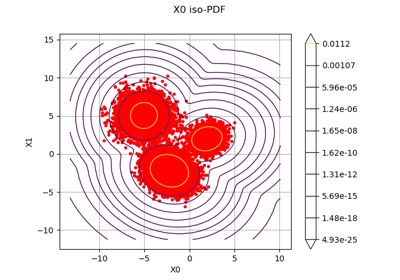
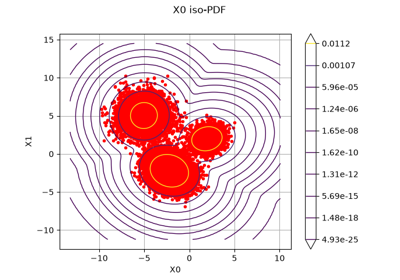
GitHub Actions build openturns/otmixmod 28087070320

diff --git a/otmixmod/master/_static/sg-tags.js b/otmixmod/master/_static/sg-tags.js
@@ -1,0 +1,148 @@
+// Author: Stuart Mumford
+// License: 3-clause BSD
+// This code is used on gallery index pages to extract and display a
+// list of tags for all examples on that page, and allow the user to
+// filter by one or more tags.
+
+// Create a subclass of Set where modifications trigger updates to the page.
+class TagSet extends Set {
+    // Update the URL to include currently selected tags
+    updateURLTags() {
+        const searchParams = new URLSearchParams(window.location.search);
+        if (this.size > 0) {
+            const tagStr = Array.from(this).join(",")
+            searchParams.set("sg-tags", tagStr);
+        } else {
+            searchParams.delete("sg-tags");
+        }
+
+        // Update the URL
+        const newUrl = `${window.location.pathname}?${searchParams.toString()}`;
+        window.history.replaceState({}, "", newUrl);
+    }
+
+    // Set all the elements of the list of tags to reflect the currently active tags
+    updateTagButtons() {
+        const tags = document.querySelectorAll('.sphx-glr-tag');
+        tags.forEach(tagElement => {
+            tagElement.classList.toggle(
+                'active',
+                this.has(tagElement.textContent)
+            );
+        });
+    }
+
+    // Set state of clear button
+    updateClearButton() {
+        const clearElement = document.getElementById('sphx-glr-tag-clear')
+        if (this.size > 0) {
+            clearElement.style.display = 'block';
+        } else {
+            clearElement.style.display = 'none';
+        }
+    }
+
+    // Filter grid items based on selected tags
+    filterGrid() {
+        const gridItems = document.querySelectorAll('.sphx-glr-thumbcontainer');
+
+        gridItems.forEach(item => {
+            let itemTags = new Set();
+            if (item.dataset.sgtags) {
+                itemTags = new Set(JSON.parse(item.dataset.sgtags));
+            }
+            const matchesAllSelected = [...this].every(tag => itemTags.has(tag));
+            item.style.display = matchesAllSelected || this.size === 0 ? 'block' : 'none';
+        });
+    }
+
+    updateUI() {
+        // Update UI and filter grid
+        this.updateTagButtons();
+        this.updateClearButton()
+        this.updateURLTags();
+        this.filterGrid();
+    }
+
+    add(value) {
+        const result = super.add(value);
+        this.updateUI();
+        return result;
+    }
+
+    delete(value) {
+        const result = super.delete(value);
+        this.updateUI();
+        return result;
+    }
+
+    clear() {
+        const result = super.clear();
+        this.updateUI();
+        return result;
+    }
+}
+
+// Track currently selected tags
+let selectedTags = new TagSet();
+
+// Extract all unique tags and populate the tag list
+function extractTags() {
+    const gridItems = document.querySelectorAll('[data-sgtags]');
+    const allTags = new Set();
+
+    gridItems.forEach(item => {
+        if (item.dataset.sgtags) {
+            const tags = JSON.parse(item.dataset.sgtags);
+            tags.forEach(tag => allTags.add(tag));
+        }
+    });
+
+    const tagList = document.getElementById('sg-tag-list');
+    allTags.forEach(tag => {
+        const tagElement = document.createElement('div');
+        tagElement.className = 'sphx-glr-tag';
+        tagElement.textContent = tag;
+        tagElement.addEventListener('click', () => toggleTag(tag));
+        tagList.appendChild(tagElement);
+    });
+    if (allTags.size > 0) {
+        nameElement = document.createElement('div');
+        nameElement.className = 'sphx-glr-tag-label';
+        nameElement.textContent = "🏷 Tags:";
+        tagList.prepend(nameElement);
+
+        let clearElement = document.createElement('div');
+        clearElement.id = 'sphx-glr-tag-clear';
+        clearElement.className = 'sphx-glr-tag-label';
+        clearElement.textContent = "Clear";
+        clearElement.style.display = 'none';  // Hide the element until there is a selected tag
+        clearElement.addEventListener('click', () => selectedTags.clear());
+        tagList.appendChild(clearElement);
+    }
+
+    // Load any tags from the URL
+    const searchParams = new URLSearchParams(window.location.search);
+    sgTagsParam = searchParams.get("sg-tags");
+    if (sgTagsParam !== null && sgTagsParam !== "") {
+        const urlTags = searchParams.get("sg-tags").split(",");
+        console.log(urlTags);
+        urlTags.forEach(tag => {
+            toggleTag(tag);
+        });
+    }
+}
+
+// Toggle a tag's selected state and update the grid
+function toggleTag(tag) {
+    if (selectedTags.has(tag)) {
+        selectedTags.delete(tag);
+    } else {
+        selectedTags.add(tag);
+    }
+}
+
+// Initialize
+document.addEventListener('DOMContentLoaded', () => {
+    extractTags();
+});

diff --git a/otmixmod/master/_static/sg_gallery.css b/otmixmod/master/_static/sg_gallery.css
@@ -365,3 +365,42 @@ p.sphx-glr-signature a.reference.external {
 a.sphx-glr-backref-instance {
   text-decoration: none;
 }
+
+.sphx-glr-tag-list {
+    display: flex;
+    flex-wrap: wrap;
+    gap: 5px;
+    padding-bottom: 2em;
+}
+
+.sphx-glr-tag {
+    padding: 5px 10px;
+    background-color: var(--sg-tooltip-background);
+    border-color: transparent;
+    border-style: solid;
+    border-width: 2px;
+    border-radius: 3px;
+    cursor: pointer;
+}
+
+.sphx-glr-tag:hover {
+    border-style: solid;
+    border-color: var(--sg-thumb-hover-border);
+}
+
+.sphx-glr-tag.active {
+    border-style: solid;
+    border-color: var(--sg-thumb-hover-border);
+}
+
+.sphx-glr-tag-label {
+    padding: 5px 10px 5px 0px;
+    border-color: transparent;
+    border-style: solid;
+    border-width: 2px;
+    border-radius: 3px;
+}
+
+#sphx-glr-tag-clear {
+    cursor: pointer;
+}

diff --git a/otmixmod/master/auto_examples/index.html b/otmixmod/master/auto_examples/index.html
@@ -10,7 +10,7 @@
     <link rel="stylesheet" type="text/css" href="../_static/openturns.css?v=8eaafb59" />
     <link rel="stylesheet" type="text/css" href="../_static/plot_directive.css" />
     <link rel="stylesheet" type="text/css" href="../_static/copybutton.css?v=76b2166b" />
-    <link rel="stylesheet" type="text/css" href="../_static/sg_gallery.css?v=d2d258e8" />
+    <link rel="stylesheet" type="text/css" href="../_static/sg_gallery.css?v=fd6457a4" />
     <link rel="stylesheet" type="text/css" href="../_static/sg_gallery-binder.css?v=f4aeca0c" />
     <link rel="stylesheet" type="text/css" href="../_static/sg_gallery-dataframe.css?v=2082cf3c" />
     <link rel="stylesheet" type="text/css" href="../_static/sg_gallery-rendered-html.css?v=1277b6f3" />
@@ -20,6 +20,7 @@
     <script src="../_static/sphinx_highlight.js?v=6ffebe34"></script>
     <script src="../_static/clipboard.min.js?v=a7894cd8"></script>
     <script src="../_static/copybutton.js?v=4ea706d9"></script>
+    <script src="../_static/sg-tags.js?v=d80f6fa4"></script>
     <link rel="index" title="Index" href="../genindex.html" />
     <link rel="search" title="Search" href="../search.html" />
     <link rel="next" title="Example 1: Axial stressed beam" href="plot_example1.html" />
@@ -99,7 +100,7 @@
             
   <section id="examples">
 <h1>Examples<a class="headerlink" href="#examples" title="Link to this heading">¶</a></h1>
-<div class="sphx-glr-thumbnails"><div class="sphx-glr-thumbcontainer" tooltip="Example 1: Axial stressed beam"><img alt="" src="../_images/sphx_glr_plot_example1_thumb.png" />
+<div id='sg-tag-list' class='sphx-glr-tag-list'></div><div class="sphx-glr-thumbnails"><div class="sphx-glr-thumbcontainer" tooltip="Example 1: Axial stressed beam"><img alt="" src="../_images/sphx_glr_plot_example1_thumb.png" />
 <p><a class="reference internal" href="plot_example1.html"><span class="doc">Example 1: Axial stressed beam</span></a></p>
   <div class="sphx-glr-thumbnail-title">Example 1: Axial stressed beam</div>
 </div></div><div class="toctree-wrapper compound">

diff --git a/otmixmod/master/genindex.html b/otmixmod/master/genindex.html
@@ -9,7 +9,7 @@
     <link rel="stylesheet" type="text/css" href="_static/openturns.css?v=8eaafb59" />
     <link rel="stylesheet" type="text/css" href="_static/plot_directive.css" />
     <link rel="stylesheet" type="text/css" href="_static/copybutton.css?v=76b2166b" />
-    <link rel="stylesheet" type="text/css" href="_static/sg_gallery.css?v=d2d258e8" />
+    <link rel="stylesheet" type="text/css" href="_static/sg_gallery.css?v=fd6457a4" />
     <link rel="stylesheet" type="text/css" href="_static/sg_gallery-binder.css?v=f4aeca0c" />
     <link rel="stylesheet" type="text/css" href="_static/sg_gallery-dataframe.css?v=2082cf3c" />
     <link rel="stylesheet" type="text/css" href="_static/sg_gallery-rendered-html.css?v=1277b6f3" />
@@ -18,6 +18,7 @@
     <script src="_static/sphinx_highlight.js?v=6ffebe34"></script>
     <script src="_static/clipboard.min.js?v=a7894cd8"></script>
     <script src="_static/copybutton.js?v=4ea706d9"></script>
+    <script src="_static/sg-tags.js?v=d80f6fa4"></script>
     <link rel="index" title="Index" href="#" />
     <link rel="search" title="Search" href="search.html" />
     <link href='http://fonts.googleapis.com/css?family=Open+Sans:300,400,700'
@@ -182,7 +183,7 @@
     </div>
     <div class="footer" role="contentinfo">
     &#169; Copyright 2005-2026 Airbus-EDF-IMACS-ONERA-Phimeca.
-      Last updated on Apr 27, 2026.
+      Last updated on Jun 24, 2026.
       Created using <a href="https://www.sphinx-doc.org/">Sphinx</a> 9.1.0.
     </div>
   </body>

diff --git a/otmixmod/master/search.html b/otmixmod/master/search.html
@@ -9,7 +9,7 @@
     <link rel="stylesheet" type="text/css" href="_static/openturns.css?v=8eaafb59" />
     <link rel="stylesheet" type="text/css" href="_static/plot_directive.css" />
     <link rel="stylesheet" type="text/css" href="_static/copybutton.css?v=76b2166b" />
-    <link rel="stylesheet" type="text/css" href="_static/sg_gallery.css?v=d2d258e8" />
+    <link rel="stylesheet" type="text/css" href="_static/sg_gallery.css?v=fd6457a4" />
     <link rel="stylesheet" type="text/css" href="_static/sg_gallery-binder.css?v=f4aeca0c" />
     <link rel="stylesheet" type="text/css" href="_static/sg_gallery-dataframe.css?v=2082cf3c" />
     <link rel="stylesheet" type="text/css" href="_static/sg_gallery-rendered-html.css?v=1277b6f3" />
@@ -19,6 +19,7 @@
     <script src="_static/sphinx_highlight.js?v=6ffebe34"></script>
     <script src="_static/clipboard.min.js?v=a7894cd8"></script>
     <script src="_static/copybutton.js?v=4ea706d9"></script>
+    <script src="_static/sg-tags.js?v=d80f6fa4"></script>
     <script src="_static/searchtools.js"></script>
     <script src="_static/language_data.js"></script>
     <link rel="index" title="Index" href="genindex.html" />
@@ -113,7 +114,7 @@
     </div>
     <div class="footer" role="contentinfo">
     &#169; Copyright 2005-2026 Airbus-EDF-IMACS-ONERA-Phimeca.
-      Last updated on Apr 27, 2026.
+      Last updated on Jun 24, 2026.
       Created using <a href="https://www.sphinx-doc.org/">Sphinx</a> 9.1.0.
     </div>
   </body>

diff --git a/otmixmod/master/auto_examples/plot_example1.html b/otmixmod/master/auto_examples/plot_example1.html
@@ -10,7 +10,7 @@
     <link rel="stylesheet" type="text/css" href="../_static/openturns.css?v=8eaafb59" />
     <link rel="stylesheet" type="text/css" href="../_static/plot_directive.css" />
     <link rel="stylesheet" type="text/css" href="../_static/copybutton.css?v=76b2166b" />
-    <link rel="stylesheet" type="text/css" href="../_static/sg_gallery.css?v=d2d258e8" />
+    <link rel="stylesheet" type="text/css" href="../_static/sg_gallery.css?v=fd6457a4" />
     <link rel="stylesheet" type="text/css" href="../_static/sg_gallery-binder.css?v=f4aeca0c" />
     <link rel="stylesheet" type="text/css" href="../_static/sg_gallery-dataframe.css?v=2082cf3c" />
     <link rel="stylesheet" type="text/css" href="../_static/sg_gallery-rendered-html.css?v=1277b6f3" />
@@ -20,6 +20,7 @@
     <script src="../_static/sphinx_highlight.js?v=6ffebe34"></script>
     <script src="../_static/clipboard.min.js?v=a7894cd8"></script>
     <script src="../_static/copybutton.js?v=4ea706d9"></script>
+    <script src="../_static/sg-tags.js?v=d80f6fa4"></script>
     <link rel="index" title="Index" href="../genindex.html" />
     <link rel="search" title="Search" href="../search.html" />
     <link rel="prev" title="Examples" href="index.html" />

diff --git a/otmixmod/master/index.html b/otmixmod/master/index.html
@@ -10,7 +10,7 @@
     <link rel="stylesheet" type="text/css" href="_static/openturns.css?v=8eaafb59" />
     <link rel="stylesheet" type="text/css" href="_static/plot_directive.css" />
     <link rel="stylesheet" type="text/css" href="_static/copybutton.css?v=76b2166b" />
-    <link rel="stylesheet" type="text/css" href="_static/sg_gallery.css?v=d2d258e8" />
+    <link rel="stylesheet" type="text/css" href="_static/sg_gallery.css?v=fd6457a4" />
     <link rel="stylesheet" type="text/css" href="_static/sg_gallery-binder.css?v=f4aeca0c" />
     <link rel="stylesheet" type="text/css" href="_static/sg_gallery-dataframe.css?v=2082cf3c" />
     <link rel="stylesheet" type="text/css" href="_static/sg_gallery-rendered-html.css?v=1277b6f3" />
@@ -20,6 +20,7 @@
     <script src="_static/sphinx_highlight.js?v=6ffebe34"></script>
     <script src="_static/clipboard.min.js?v=a7894cd8"></script>
     <script src="_static/copybutton.js?v=4ea706d9"></script>
+    <script src="_static/sg-tags.js?v=d80f6fa4"></script>
     <link rel="index" title="Index" href="genindex.html" />
     <link rel="search" title="Search" href="search.html" />
     <link rel="next" title="API Reference" href="user_manual/user_manual.html" />

diff --git a/otmixmod/master/user_manual/user_manual.html b/otmixmod/master/user_manual/user_manual.html
@@ -10,7 +10,7 @@
     <link rel="stylesheet" type="text/css" href="../_static/openturns.css?v=8eaafb59" />
     <link rel="stylesheet" type="text/css" href="../_static/plot_directive.css" />
     <link rel="stylesheet" type="text/css" href="../_static/copybutton.css?v=76b2166b" />
-    <link rel="stylesheet" type="text/css" href="../_static/sg_gallery.css?v=d2d258e8" />
+    <link rel="stylesheet" type="text/css" href="../_static/sg_gallery.css?v=fd6457a4" />
     <link rel="stylesheet" type="text/css" href="../_static/sg_gallery-binder.css?v=f4aeca0c" />
     <link rel="stylesheet" type="text/css" href="../_static/sg_gallery-dataframe.css?v=2082cf3c" />
     <link rel="stylesheet" type="text/css" href="../_static/sg_gallery-rendered-html.css?v=1277b6f3" />
@@ -20,6 +20,7 @@
     <script src="../_static/sphinx_highlight.js?v=6ffebe34"></script>
     <script src="../_static/clipboard.min.js?v=a7894cd8"></script>
     <script src="../_static/copybutton.js?v=4ea706d9"></script>
+    <script src="../_static/sg-tags.js?v=d80f6fa4"></script>
     <link rel="index" title="Index" href="../genindex.html" />
     <link rel="search" title="Search" href="../search.html" />
     <link rel="next" title="MixtureFactory" href="_generated/otmixmod.MixtureFactory.html" />